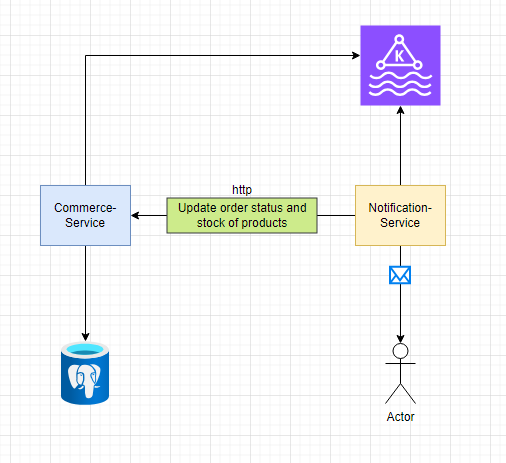
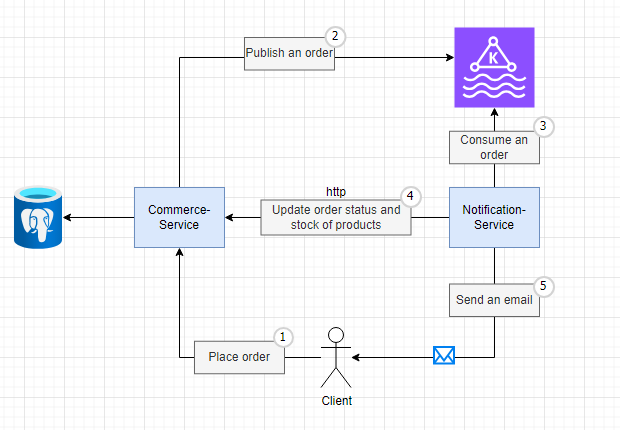
add architecture on readme

diff --git a/README.md b/README.md
@@ -10,7 +10,7 @@
 
 ### Architecture
 
-![Architecture](../assets/architecture-draw.png)
+![Architecture](src/main/assets/architecture-draw.png)
 
 ----
 
